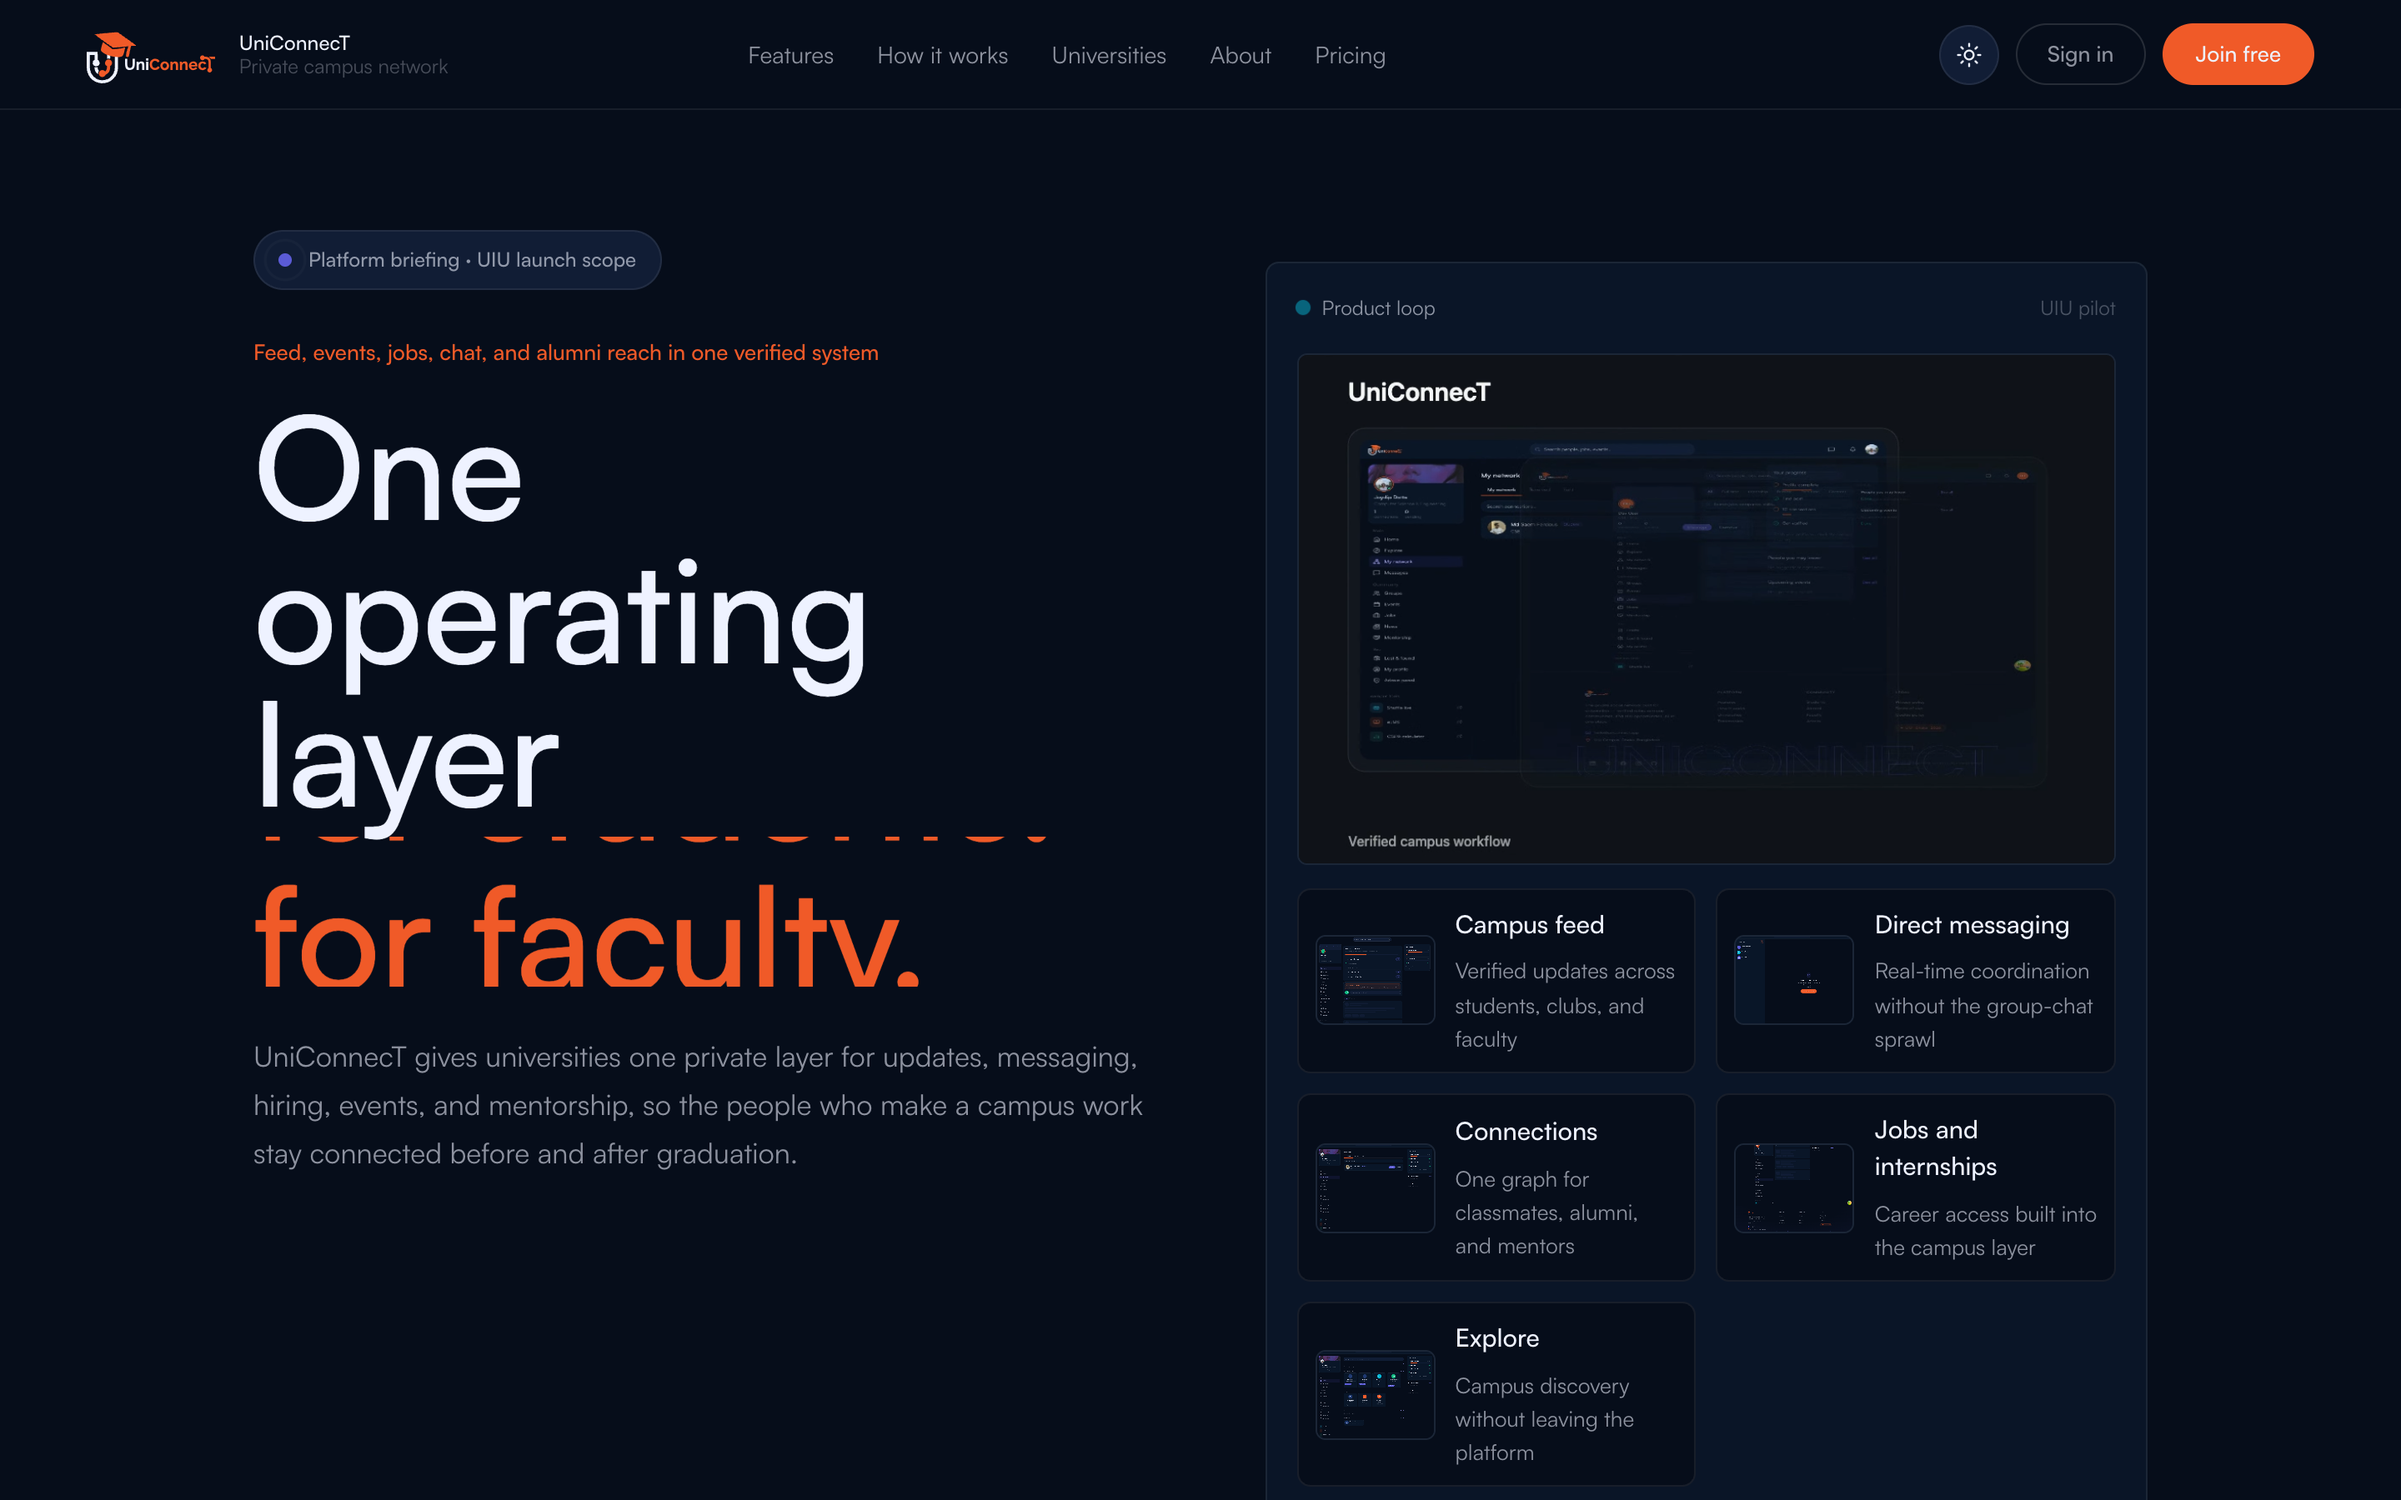
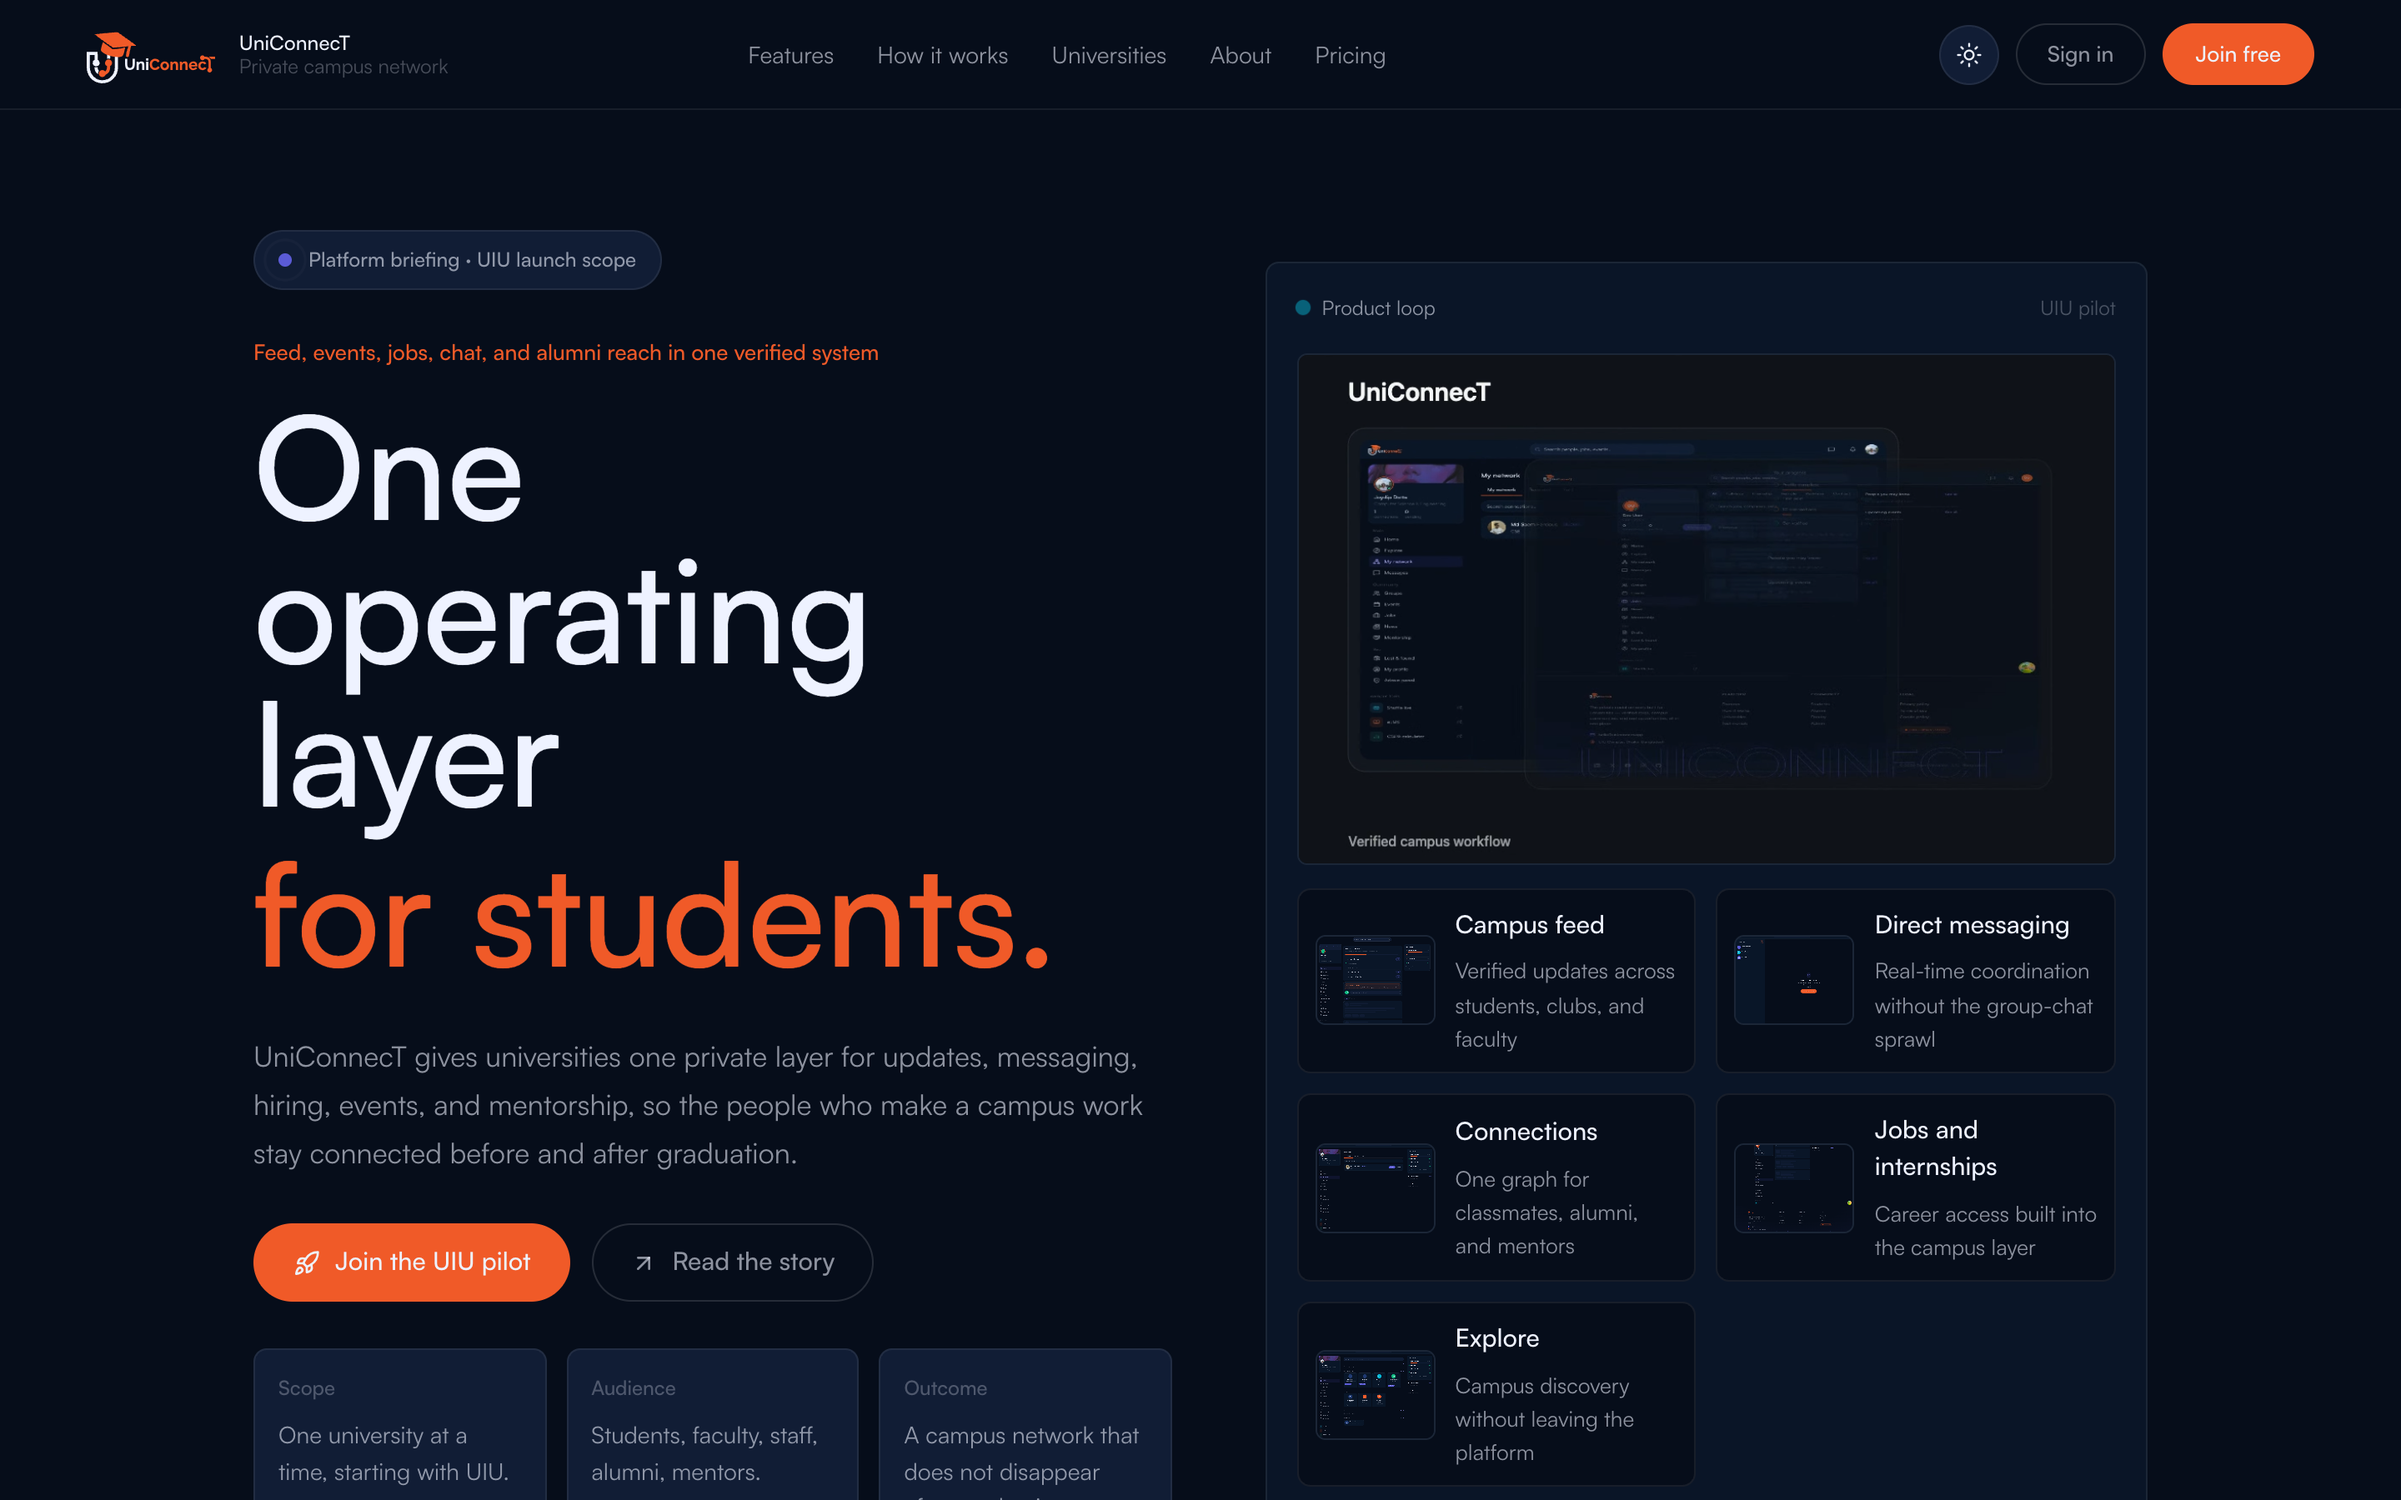
fixed landing animations

Changed region(s): [[0.0938, 0.8089, 0.5, 1.0], [0.0938, 0.56, 0.4375, 0.6844]]

diff --git a/apps/web/src/features/landing/hooks/useScrollReveal.ts b/apps/web/src/features/landing/hooks/useScrollReveal.ts
@@ -3,7 +3,12 @@ import { useEffect, useLayoutEffect, useRef } from 'react'
 const useIsomorphicLayoutEffect = typeof window !== 'undefined' ? useLayoutEffect : useEffect
 
 function supportsViewTimeline() {
-  return typeof CSS !== 'undefined' && typeof CSS.supports === 'function' && CSS.supports('animation-timeline: view()')
+  // animation-timeline: view() is disabled here: mixing `entry`/`cover` range
+  // names (see landing.css) produces unpredictable per-element reveal
+  // failures depending on element size/position on the page — some sections
+  // never reach opacity 1. The IntersectionObserver fallback below is the
+  // reliable path until the range math is fixed and verified in a real browser.
+  return false
 }
 
 function prefersReducedMotion() {

diff --git a/apps/web/src/styles/landing.css b/apps/web/src/styles/landing.css
@@ -148,8 +148,11 @@
 }
 
 @keyframes uc-hero-kinetic-cycle {
-  from { transform: translateY(0); }
-  to { transform: translateY(-50%); }
+  0%, 20% { transform: translateY(0); }
+  25%, 45% { transform: translateY(-12.5%); }
+  50%, 70% { transform: translateY(-25%); }
+  75%, 95% { transform: translateY(-37.5%); }
+  100% { transform: translateY(-50%); }
 }
 
 @keyframes uc-hero-rail {
